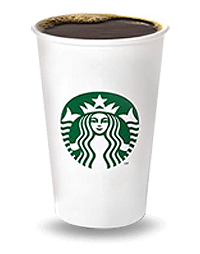
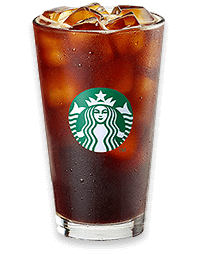
image

diff --git a/views/html/index.html b/views/html/index.html
@@ -1,7 +1,7 @@
 <!Doctype html>
 <html lang="ko">
     <head>
-        <title>스포티지의 멤버가 되어주세요. “Be My Sporty”</title>
+        <title>스포티지의 멤버가 되어주세요. “스포티지 PREVIEW”</title> <!-- 0616 zoe 수정 -->
         <meta charset="utf-8">
         <meta http-equiv="x-ua-compatible" content="IE=edge">
         <meta name="viewport" content="width=device-width, initial-scale=1.0, maximum-scale=1.0, minimum-scale=1.0, user-scalable=no">
@@ -13,7 +13,7 @@
         <meta property="og:type" content="website">
         <meta property="og:url" content="">
         <meta property="og:site_name" content="" >
-        <meta property="og:title" content="스포티지의 멤버가 되어주세요. “Be My Sporty”">
+        <meta property="og:title" content="스포티지의 멤버가 되어주세요. “스포티지 PREVIEW”"> <!-- 0616 zoe 수정 -->
         <meta property="og:description" content="스포티지 카카오톡 채널에서 소식을 확인하고 경품도 받아가세요!">
         <meta property="og:image" content="../../content/images/share.png">
         <meta property="og:image:width" content="600">
@@ -21,7 +21,7 @@
         
         <meta name="twitter:card" content="summary">
         <meta name="twitter:site" content="">
-        <meta property="twitter:title" content="스포티지의 멤버가 되어주세요. “Be My Sporty”">
+        <meta property="twitter:title" content="스포티지의 멤버가 되어주세요. “스포티지 PREVIEW”"> <!-- 0616 zoe 수정 -->
         <meta property="twitter:description" content="">
         <meta property="twitter:image" content="./../content/images/share.png">
 
@@ -115,10 +115,14 @@
                     <h3 class="main-cont-tit fw400 fs36 fs28__mo fc-white txt-cnt"><span class="txt-linebreak__mo">미션을 완료 할 때 마다</span> 추첨을 통해 다양한 경품을 드립니다</h3>
                     <div class="main-reward-wrap__top">
                         <h4 class="main-reward-tit fw400 fs24 fs20__mo">추첨을 통해<br>제공되는<br><strong class="fs30 fs24__mo fc-green">스페셜 리워드</strong></h4>
+                        <!-- <figure>
+                            <img src="../../content/images/main-reward-special-preview.png" alt="오디세이 G7 커브드 모니터(3명), Apple Airpods Pro 3세대 + 무광 케이스(10명), 캠핑용 감성 LED 램프(30명), 스포티지 계약금 지원 쿠폰 10만 원(500명)" class="pc-show">
+                            <img src="../../content/images/main-reward-special-preview-mo.png" alt="삼성 오디세이 G7 커브드 모니터(3명), Apple Airpods Pro 3세대 + 무광 케이스(10명), 캠핑용 감성 LED 램프(30명), 스포티지 계약금 지원 쿠폰 10만 원(500명)" class="mo-show">
+                        </figure> //오픈 전 스페셜 리워드 (0616 zoe 추가) -->
                         <figure>
                             <img src="../../content/images/main-reward-special.png" alt="스포티지 5세대(1명), 삼성 오디세이 G7 커브드 모니터(3명), Apple Airpods Pro 3세대 + 무광 케이스(10명), 캠핑용 감성 LED 램프(30명), 스포티지 계약금 지원 쿠폰 10만 원(500명)" class="pc-show">
                             <img src="../../content/images/main-reward-special-mo.png" alt="스포티지 5세대(1명), 삼성 오디세이 G7 커브드 모니터(3명), Apple Airpods Pro 3세대 + 무광 케이스(10명), 캠핑용 감성 LED 램프(30명), 스포티지 계약금 지원 쿠폰 10만 원(500명)" class="mo-show">
-                        </figure>
+                        </figure> <!-- //오픈 후 스페셜 리워드 -->
                         <div class="main-reward-cont">
                             <p class="fw700 fs26 fs24__mo fc-indigo"><span class="txt-linebreak__mo">경품에 숨겨진 The all-new Sportage의</span> 주요 특징을 찾아보세요!</p>
                             <p class="pt20 fw300 fs18 fc-brown"><span class="txt-linebreak__mo">* 스페셜 리워드는 8월 3일(화) 이벤트 종료 후,</span> 8월 중 추첨 및 일괄 배송 예정입니다.</p>
@@ -139,6 +143,7 @@
                         <dt class="main-cont-tit fw700 fs32">유의사항</dt>
                         <dd>
                             <p class="main-caution-txt fs22 fs20__mo txt-indent">쿠폰함에서 입력된 모든 쿠폰 내용을 확인할 수 있습니다.</p>
+                            <p class="main-caution-txt fs22 fs20__mo txt-indent">본 이벤트는 카카오맵 최신 버전에서 이벤트 참여가 가능합니다.</p> <!-- 0616 zoe 수정 -->
                             <p class="main-caution-txt fs22 fs20__mo txt-indent">모든 경품은 당첨 후 2주 내에 당첨 확인 및 회신을 하지 않을 경우 당첨이 취소됩니다.</p>
                             <p class="main-caution-txt fs22 fs20__mo txt-indent">당첨된 경품(5만 원 초과)의 제세공과금(약 22%)은 본인 부담입니다.</p>
                             <p class="main-caution-txt fs22 fs20__mo txt-indent">비정상적이고 불법적인 방법으로 본 이벤트에 참여하신 경우 당첨이 취소됩니다.</p>
@@ -464,7 +469,7 @@
                     <span class="modal-prize-label fw700 fs24">즉석 당첨 경품 결과</span>
                     <h3 class="modal-hd-tit fc-white">축하합니다!</h3>
                     <figure class="modal-prize-gift"><img src="../../content/images/modal-prize-coffee.png" alt="스타벅스 아메리카노"></figure>
-                    <p class="modal-prize-txt fc-indigo"><span class="fs32"><b>스타벅스 아메리카노 HOT(TALL)</b>에</span><br>당첨되었습니다.</p>
+                    <p class="modal-prize-txt fc-indigo"><span class="fs32"><b>스타벅스 아메리카노 ICE(TALL)</b>에</span><br>당첨되었습니다.</p> <!-- 0616 zoe 수정 -->
                 </div>
                 <div class="modal-cont pt0 white">
                     <p class="form-tip fw300 fs18 fc-indigo txt-indent"><i class="mark">※</i>경품은 당첨 확인 후 MMS로 발송(10분 내외 소요) 됩니다.</p>
@@ -497,10 +502,24 @@
                 </div>
                 <div class="modal-cont white pl0 pr0">
                     <h4 class="modal-cont-tit fw400 fs34 fc-indigo"><b><span class="txt-linebreak__mo">이벤트를 한 번이라도</span> 참여한 분</b>에겐<br><span class="txt-linebreak__mo">추첨을 통해</span> <b>스페셜 리워드</b>를 증정합니다!</h4>
+                    <figure><img src="../../content/images/modal-prize-rewards-preview.png" alt="스페셜 리워드"></figure>
+                    <p class="modal-cont-txt pt40 fs24 fc-brown txt-cnt"><span class="txt-linebreak__mo">스페셜 리워드는</span> 8월 3일(화) 이벤트 종료 후,<br>8월 중 추첨 및 일괄 배송 예정입니다.</p>
+                </div>
+            </div> <!-- //아쉽네요! : 오픈 전 (0616 zoe 추가) -->
+            <div class="modal-wrap__rlt">
+                <a href="javascript:void(0);" class="close-modal-btn" onclick="closeModal('modalPrize');"><span class="txt-hidden">즉석 당첨 경품 결과 레이어 팝업 닫기</span></a>
+                <div class="modal-prize-hd__fail">
+                    <p class="modal-hd-greet fs24"><strong>김기아</strong>님 반갑습니다!</p>
+                    <span class="modal-prize-label fw700 fs24 fc-white">즉석 당첨 경품 결과</span>
+                    <h3 class="modal-hd-tit">아쉽네요!</h3>
+                    <p class="modal-hd-txt fs30 fs26__mo fc-indigo"><span class="txt-linebreak__mo">그렇지만 스탬프를</span> 1개라도 받았다면<br>스페셜 리워드에 자동 응모되니,<br><span class="txt-linebreak__mo">앞으로 남은 이벤트도</span> 계속해서 도전해 주세요.</p>
+                </div>
+                <div class="modal-cont white pl0 pr0">
+                    <h4 class="modal-cont-tit fw400 fs34 fc-indigo"><b><span class="txt-linebreak__mo">이벤트를 한 번이라도</span> 참여한 분</b>에겐<br><span class="txt-linebreak__mo">추첨을 통해</span> <b>스페셜 리워드</b>를 증정합니다!</h4>
                     <figure><img src="../../content/images/modal-prize-rewards.png" alt="스페셜 리워드"></figure>
                     <p class="modal-cont-txt pt40 fs24 fc-brown txt-cnt"><span class="txt-linebreak__mo">스페셜 리워드는</span> 8월 3일(화) 이벤트 종료 후,<br>8월 중 추첨 및 일괄 배송 예정입니다.</p>
                 </div>
-            </div> <!-- //아쉽네요! -->
+            </div> <!-- //아쉽네요! : 오픈 후 -->
         </div> <!-- //즉석 당첨 경품 결과 모달 -->
         <div class="modal-area" id="modalHistory">
             <div class="modal-wrap__rlt">
@@ -551,7 +570,7 @@
                     <div class="modal-history-cont" id="modalHistoryMsn1" style="display: block;">
                         <div class="modal-history-prize-wrap">
                             <div class="modal-history-prize-box">
-                                <p class="modal-history-prize__coffee fs24">스타벅스 아메리카노<br>HOT(TALL)</p>
+                                <p class="modal-history-prize__coffee fs24">스타벅스 아메리카노<br>ICE(TALL)</p> <!-- 0616 zoe 수정 -->
                             </div>
                             <p class="form-tip mt30 fw300 fs18 fc-indigo txt-indent"><i class="mark">※</i>경품 응모 시마다 지급되는 스탬프를 1개라도 받았다면 자동으로 스페셜 리워드에 응모됩니다.</p>
                             <p class="form-tip mt10 fw300 fs18 fc-indigo txt-indent"><i class="mark">※</i>당첨된 경품 안내 MMS를 받지 못하신 경우 이벤트 운영사무국으로 문의 바랍니다.</p>
@@ -593,7 +612,7 @@
                     <div class="modal-history-cont" id="modalHistoryMsn4">
                         <div class="modal-history-prize-wrap">
                             <div class="modal-history-prize-box">
-                                <p class="modal-history-prize__coffee fs24">스타벅스 아메리카노<br>HOT(TALL)</p>
+                                <p class="modal-history-prize__coffee fs24">스타벅스 아메리카노<br>ICE(TALL)</p> <!-- 0616 zoe 수정 -->
                             </div>
                             <p class="form-tip mt30 fw300 fs18 fc-indigo txt-indent"><i class="mark">※</i>경품 응모 시마다 지급되는 스탬프를 1개라도 받았다면 자동으로 스페셜 리워드에 응모됩니다.</p>
                             <p class="form-tip mt10 fw300 fs18 fc-indigo txt-indent"><i class="mark">※</i>당첨된 경품 안내 MMS를 받지 못하신 경우 이벤트 운영사무국으로 문의 바랍니다.</p>
@@ -636,7 +655,7 @@
                         <div class="modal-history-reward-wrap__win">
                             <span class="modal-history-reward-label fs20">스페셜 리워드 당첨 내역</span>
                             <h4 class="modal-history-reward-tit">축하합니다!</h4>
-                            <figure class="modal-history-reward"><img src="../../content/images/modal-reward-coupon.png" alt="계약금 지원 쿠폰 10만 원"></figure>
+                            <figure class="modal-history-reward"><img src="../../content/images/modal-reward-table.png" alt="차량용 우드테이블"></figure> <!-- 0616 zoe 수정 -->
                         </div>
                     </div>
                     <div class="modal-history-cont" id="modalHistoryMsn6">
